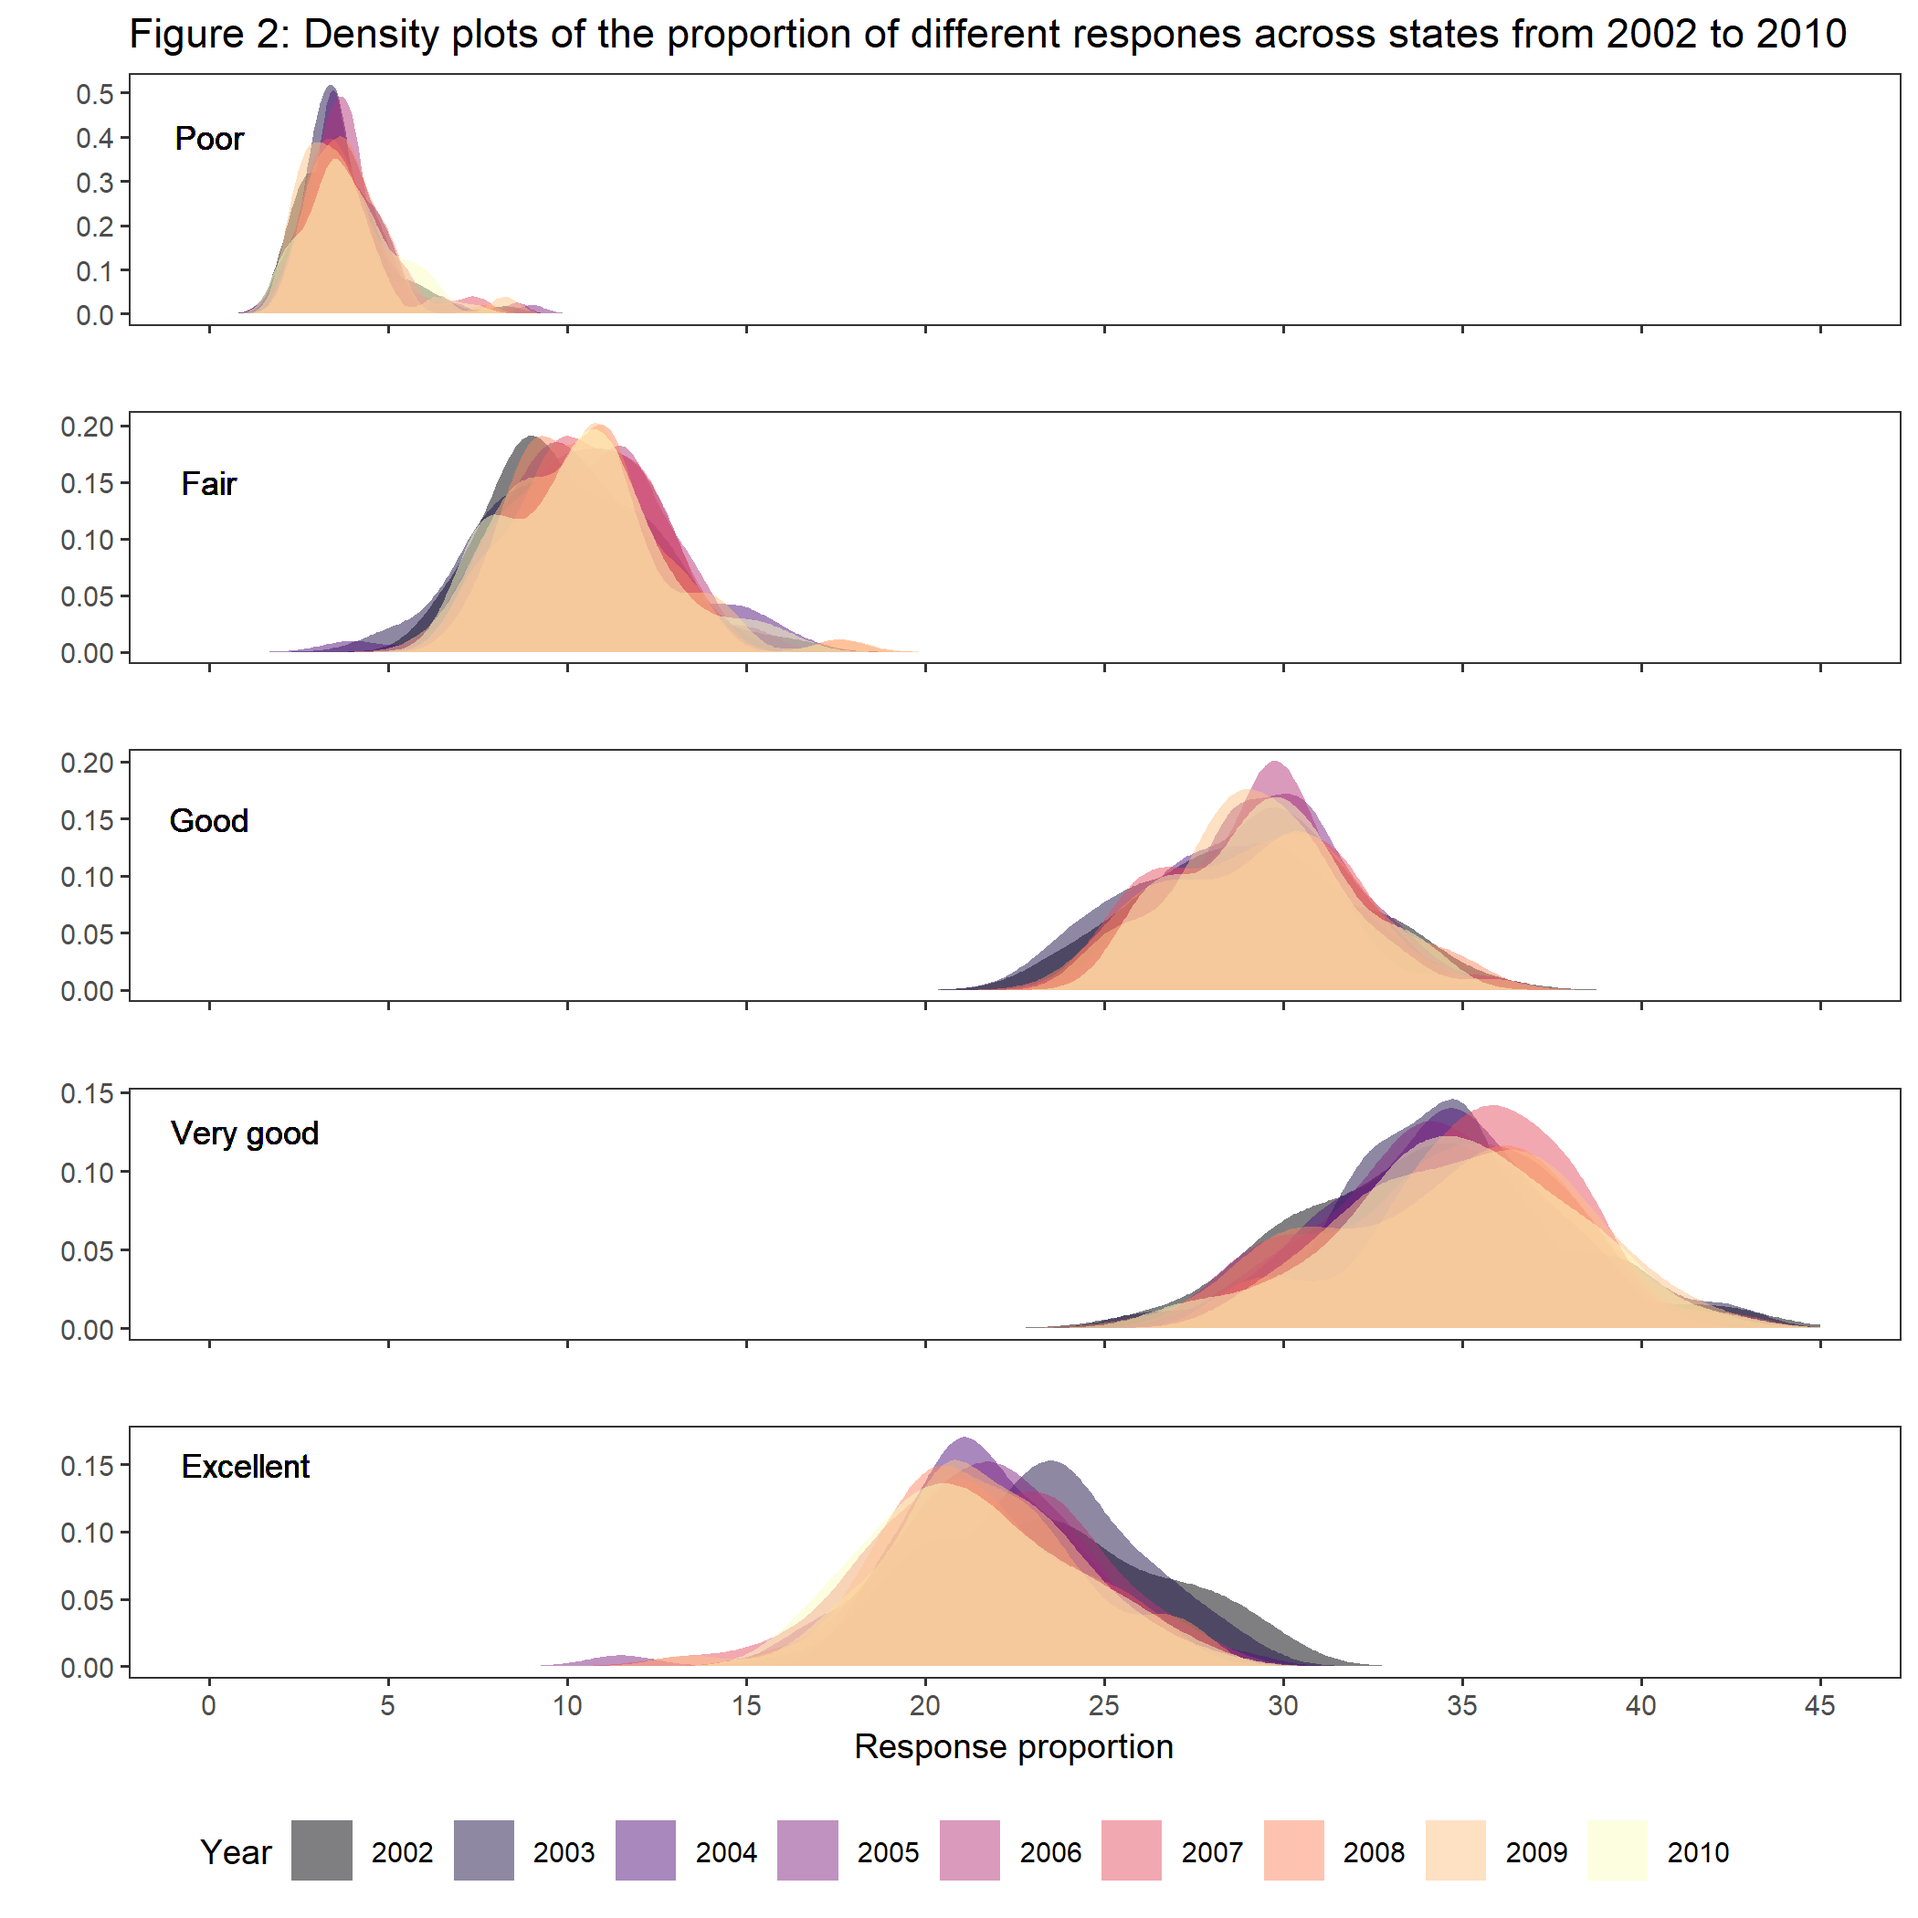
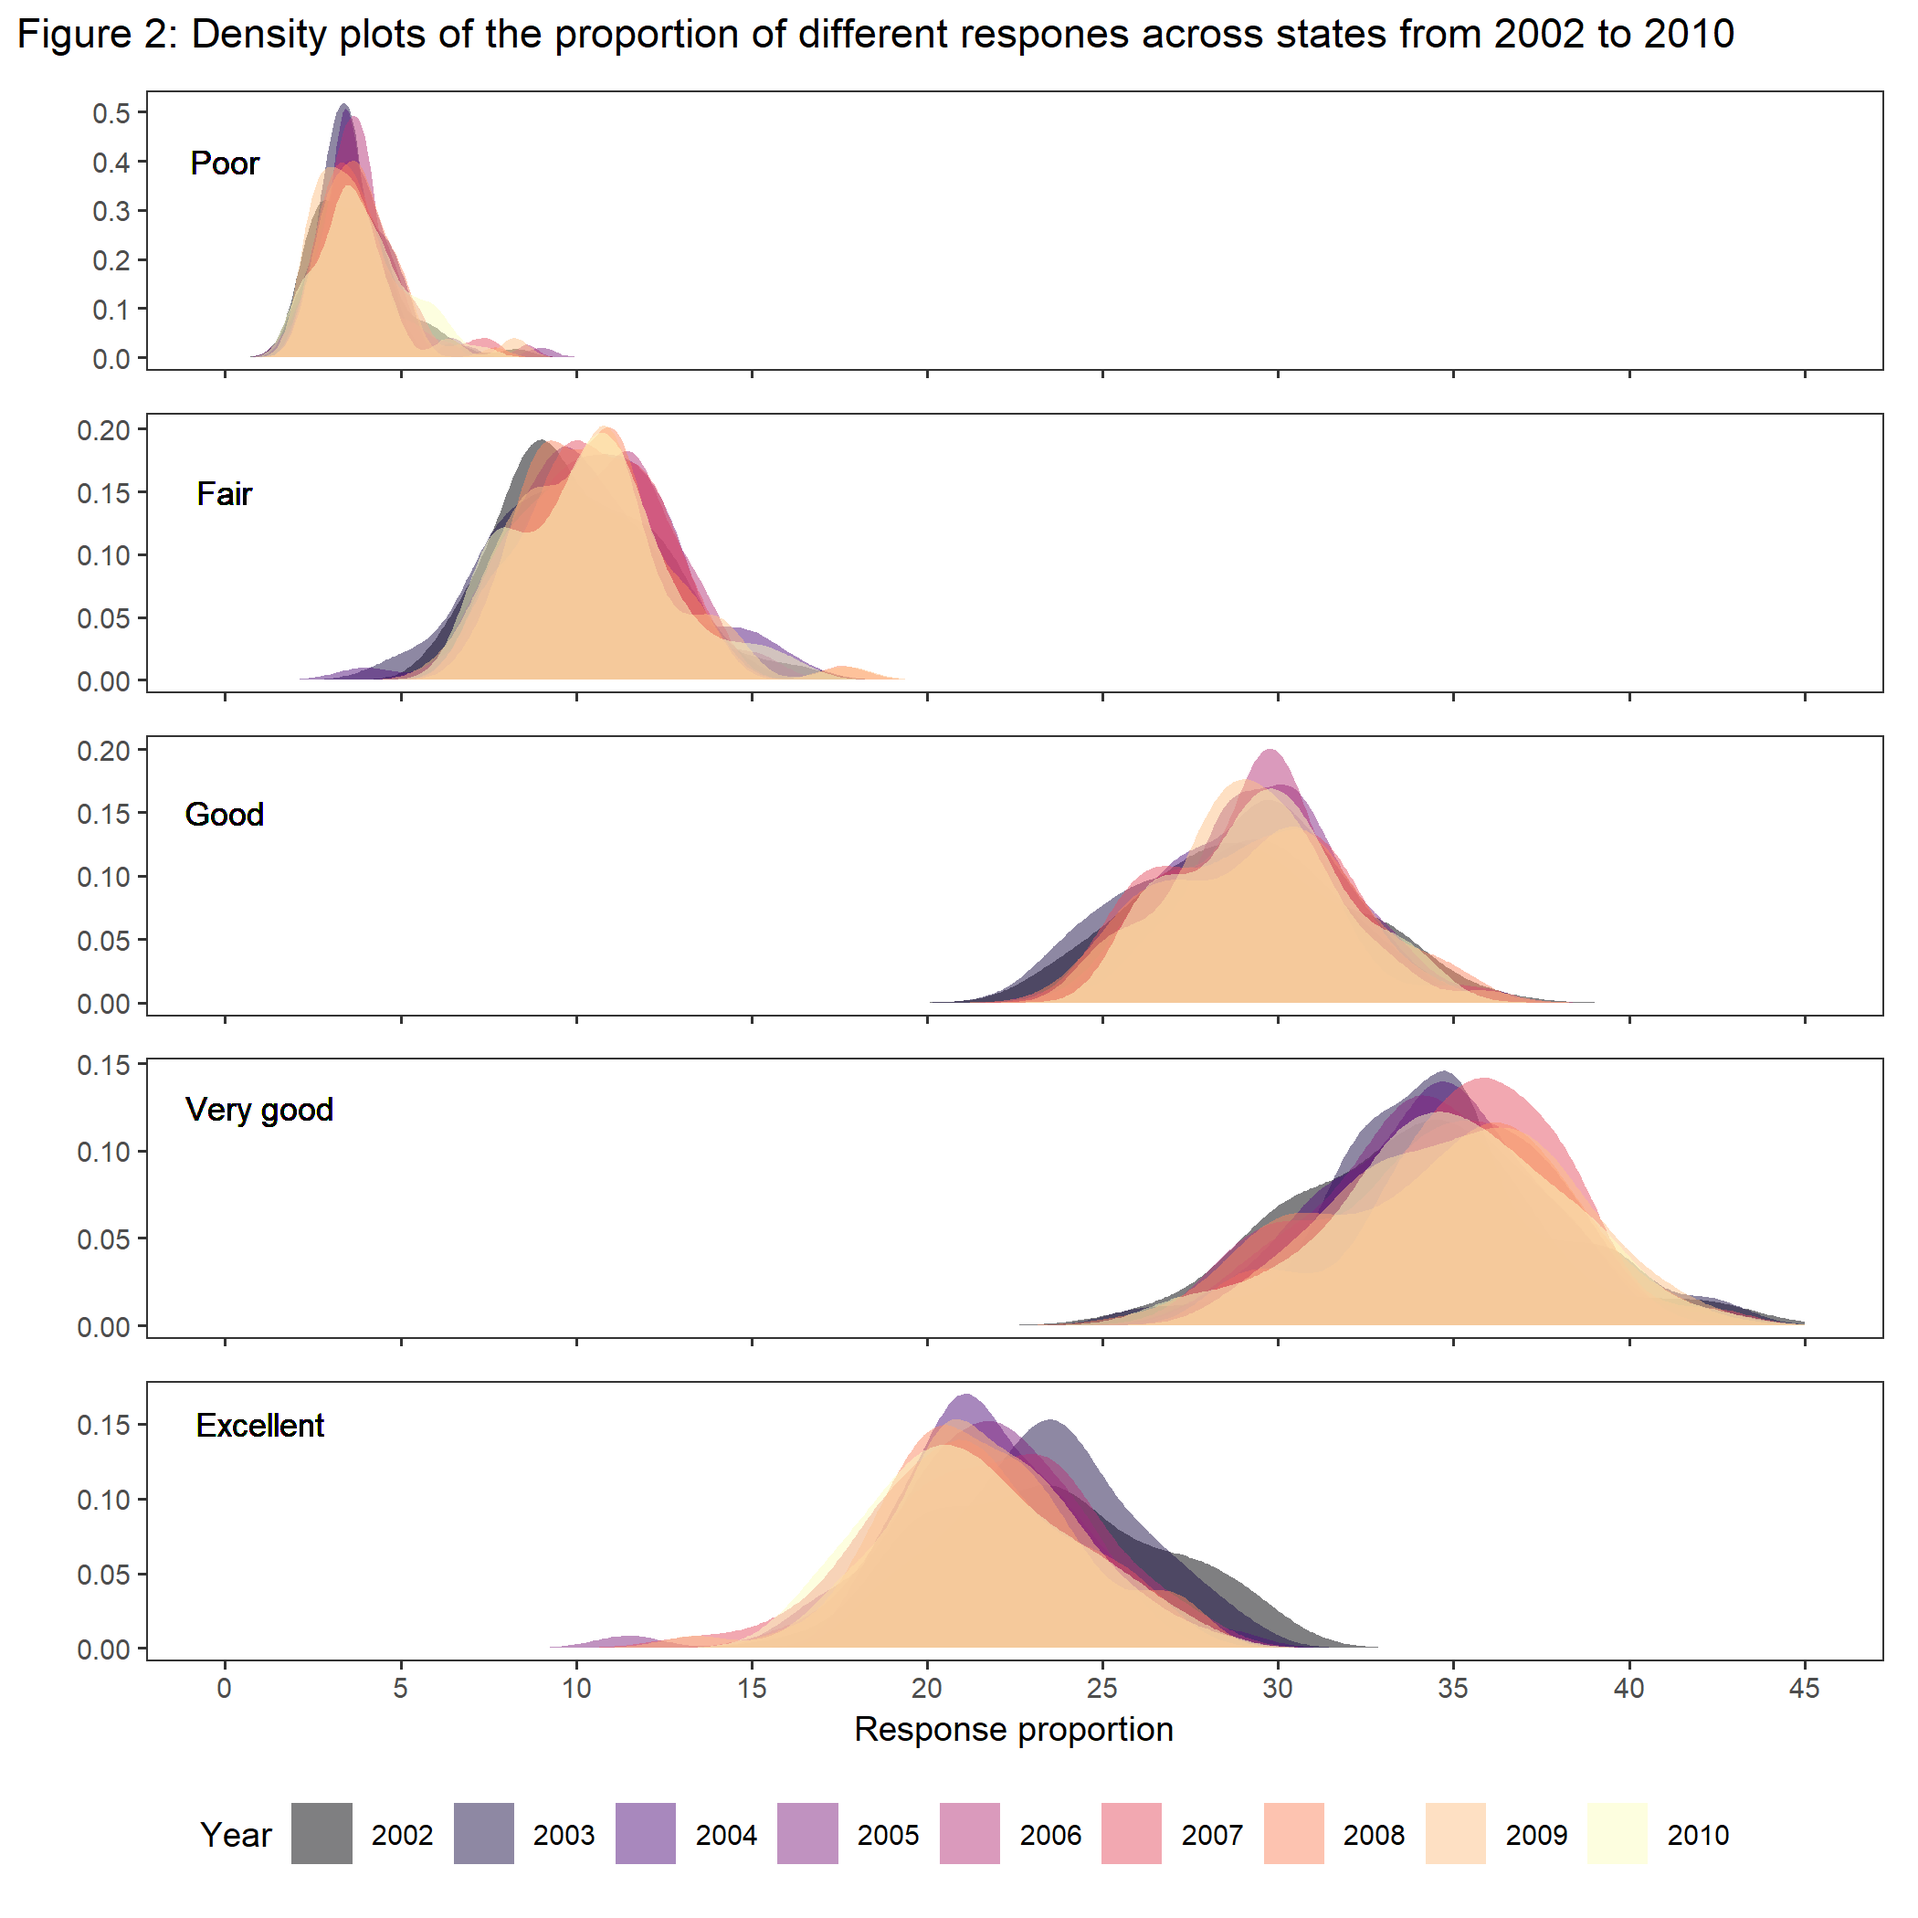
final edits

diff --git a/p8105_hw3_ntw2117.md b/p8105_hw3_ntw2117.md
@@ -115,11 +115,10 @@ poor_dist <- avg_response_year_state %>%
                                 option = "magma",
                                 guide = FALSE) + 
     theme(axis.text.x = element_blank(), 
+          axis.title.x = element_blank(),
+          axis.title.y = element_blank(),
           panel.grid.major = element_blank(), 
-          panel.grid.minor = element_blank()) + 
-    labs(title = "Figure 2: Density plots of the proportion of different respones across states from 2002 to 2010", 
-         y = "", 
-         x = "")
+          panel.grid.minor = element_blank())
 
 fair_dist <- avg_response_year_state %>%
   filter(response == "Fair") %>%
@@ -133,9 +132,10 @@ fair_dist <- avg_response_year_state %>%
                                 option = "magma",
                                 guide = FALSE) + 
     theme(axis.text.x = element_blank(), 
+          axis.title.x = element_blank(),
+          axis.title.y = element_blank(),
           panel.grid.major = element_blank(), 
-          panel.grid.minor = element_blank()) + 
-    labs(y = "", x = "")
+          panel.grid.minor = element_blank())
 
 good_dist <- avg_response_year_state %>%
   filter(response == "Good") %>%
@@ -148,10 +148,11 @@ good_dist <- avg_response_year_state %>%
     viridis::scale_fill_viridis(discrete = TRUE, 
                                 option = "magma", 
                                 guide = FALSE) + 
-    theme(axis.text.x = element_blank(), 
+    theme(axis.text.x = element_blank(),
+          axis.title.x = element_blank(),
+          axis.title.y = element_blank(),
           panel.grid.major = element_blank(), 
-          panel.grid.minor = element_blank()) +
-    labs(y = "", x = "") 
+          panel.grid.minor = element_blank()) 
 
 v_good_dist <- avg_response_year_state %>%
   filter(response == "Very good") %>%
@@ -165,9 +166,10 @@ v_good_dist <- avg_response_year_state %>%
                                 option = "magma",
                                 guide = FALSE) + 
     theme(axis.text.x = element_blank(), 
+          axis.title.x = element_blank(),
+          axis.title.y = element_blank(),
           panel.grid.major = element_blank(), 
-          panel.grid.minor = element_blank()) + 
-    labs(y = "", x = "")
+          panel.grid.minor = element_blank())
 
 excel_dist <- avg_response_year_state %>%
   filter(response == "Excellent") %>%
@@ -186,9 +188,11 @@ excel_dist <- avg_response_year_state %>%
           panel.grid.major = element_blank(), 
           panel.grid.minor = element_blank()) + 
     guides(fill = guide_legend(ncol = 10)) 
-    
 
-poor_dist / fair_dist / good_dist / v_good_dist / excel_dist
+brfss_plot <- poor_dist / fair_dist / good_dist / v_good_dist / excel_dist
+    
+wrap_elements(brfss_plot) + 
+  ggtitle("Figure 2: Density plots of the proportion of different respones across states from 2002 to 2010")
 ```
 
 <img src="p8105_hw3_ntw2117_files/figure-markdown_github/average proportion response category across location by state-1.png" width="100%" style="display: block; margin: auto;" />
@@ -249,13 +253,13 @@ insta_data %>%
   arrange(desc(n)) %>% 
   mutate(aisle = forcats::fct_reorder(aisle, n, .desc = TRUE)) %>% 
   ggplot(aes(x = aisle, y = n)) + 
-  coord_flip() + 
-  geom_bar(stat = "identity", fill = "#a888bd") +
-    labs(title = "Figure 3: Number of orders across all aisles", 
-         y = "Number of Orders", 
+    coord_flip() + 
+    geom_bar(stat = "identity", fill = "#a888bd") +
+    labs(y = "Number of Orders", 
          x = "Aisle") + 
     theme(panel.grid.major = element_blank(), 
-          panel.grid.minor = element_blank()) 
+          panel.grid.minor = element_blank()) + 
+    ggtitle("Figure 3: Number of orders across all aisles")
 ```
 
 ![](p8105_hw3_ntw2117_files/figure-markdown_github/items%20ordered%20in%20each%20aisle-1.png)
@@ -317,7 +321,7 @@ noaa_data <- p8105.datasets::ny_noaa %>%
          year = as.integer(year))
 ```
 
-The NOAA dataset contains weather information for all five New York state weather stations from 1981 to 2010. The dataset has 2595176 observations and 9 variables. Each observation represents one day from 1981 to 2010 for one of the weather stations the corresponding data was collected at. The variables provide information on that days minimum temperature and maximum temperature in degrees celsius, the snowfall for that day in millimeters, the snowdepth for that day in millimeters, and the amount of precipitation for that day in millimeters. It is important to note that uncleaned dataset reported minimum daily temperature and maximum daily temperature in tenths of degrees celsius and precipitation in tenths of millimeters. However, these were converted to proper units for ease of interpretation. The present NOAA dataset contains large amounts of missing data. Of all observations, 1372743 contain at least one missing value. In addition, 72278 have missing values for all five key variables.
+The NOAA dataset contains weather information for all five New York state weather stations from 1981 to 2010. The dataset has 2595176 observations and 9 variables. Each observation represents one day from 1981 to 2010 for one of the weather stations the corresponding data was collected at. The variables provide information on that days minimum temperature and maximum temperature in degrees celsius, the snowfall for that day in millimeters, the snowdepth for that day in millimeters, and the amount of precipitation for that day in millimeters. It is important to note that uncleaned dataset reported minimum daily temperature and maximum daily temperature in tenths of degrees celsius and precipitation in tenths of millimeters. However, these were converted to proper units for ease of interpretation. The present NOAA dataset contains large amounts of missing data. Of all observations, 53% contain at least one missing value. In addition, 3% have missing values for all five key variables.
 
 #### Questions and plots
 
